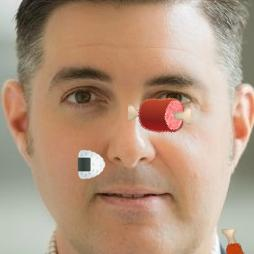
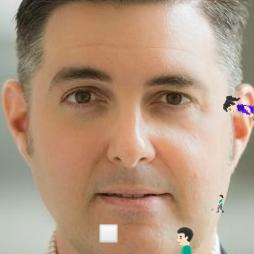
progress to showing best individual

diff --git a/Website3/client/src/components/IndividualCell.jsx b/Website3/client/src/components/IndividualCell.jsx
@@ -1,9 +1,46 @@
-import React from 'react'
+import React, {useEffect, useState, useContext } from 'react'
+import ProxyContext from "../ProxyContext";
 
 function IndividualCell() {
+    const proxyUrl = useContext(ProxyContext);
+
+    const [loadIndividual, setLoadIndividual] = useState(false);
+    const [individualSrc, setIndividualSrc] = useState(null);
+
+    useEffect(() => {
+        const intervalId = setInterval(() => {
+            setLoadIndividual(true);
+        }, 4000);
+    
+        return () => clearInterval(intervalId);
+    
+    }, [loadIndividual]);
+
+    useEffect(() => {
+        if (loadIndividual) {
+          fetch(proxyUrl + "/bestIndividual")
+            .then((res) => res.blob())
+            .then((blob) => {
+              console.log(blob);
+              if (blob["type"].includes("image")) {
+                const individualUrl = URL.createObjectURL(blob);
+                setIndividualSrc(individualUrl);
+                console.log(individualUrl);
+              } else {
+                setIndividualSrc(null);
+              }
+            })
+            .catch((error) => console.error("Image not available:", error));
+            setLoadIndividual(false);
+        }
+      }, [loadIndividual]);
+
+
     return (
         <div id='IndividualCell' className='cell'>
-            <img src="" alt="Best Individual"/>
+            {individualSrc && (
+              <img src={individualSrc} alt="best result so far" />
+            )}
         </div>
     )
 }

diff --git a/Website3/flask-server/server.py b/Website3/flask-server/server.py
@@ -19,6 +19,7 @@ openai.api_base = "https://api.openai.com/v1"
 EMBEDDING_MODEL = "text-embedding-ada-002"
 
 UPLOAD_FOLDER = os.path.join(os.path.dirname(os.path.abspath(__file__)), 'static', 'uploads')
+BEST_INDIVIDUAL_FOLDER = os.path.join(os.path.dirname(os.path.abspath(__file__)), 'static', 'evolution','individuals', '0')
 #app.config['UPLOAD_FOLDER'] = UPLOAD_FOLDER
 EMOJI_SVG_DIR = os.path.join(os.path.dirname(os.path.abspath(__file__)), 'static', 'emojis', 'svg')
 EMOJI_PNG_DIR = os.path.join(os.path.dirname(os.path.abspath(__file__)), 'static', 'emojis', 'png')
@@ -157,8 +158,16 @@ def notifyNewGeneration(distance):
 @app.route("/bestIndividual")
 def getBestIndividual():
 
-    for file_name in os.listdir(UPLOAD_FOLDER):
-        file_path = os.path.join(UPLOAD_FOLDER, file_name)
+    print("getting best individual")
+
+    #if helpers.evolving == False:
+    #    return {"msg": ["not evolving"]}
+
+    for file_name in os.listdir(BEST_INDIVIDUAL_FOLDER):
+        print(file_name)
+        if 'jpeg' not in file_name:
+            continue
+        file_path = os.path.join(BEST_INDIVIDUAL_FOLDER, file_name)
         try:
             if os.path.isfile(file_path):
                 return send_file(file_path)

diff --git a/Website3/flask-server/static/evolution/evolution.py b/Website3/flask-server/static/evolution/evolution.py
@@ -13,6 +13,7 @@ evolving = False
 def startEvolution(): #add emoji paths
     print('starting evolution')
     from server import notifyNewGeneration
+    global evolving
     evolving = True
 
     facePath = getFacePath()
